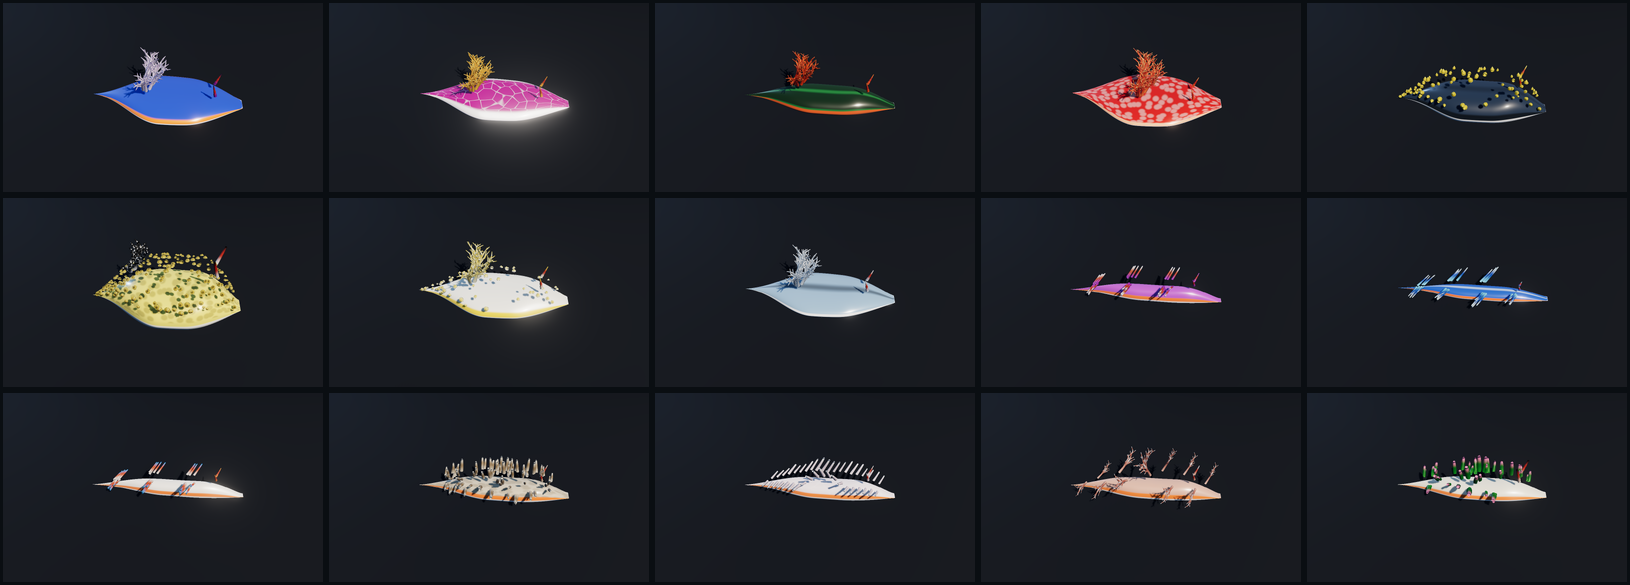
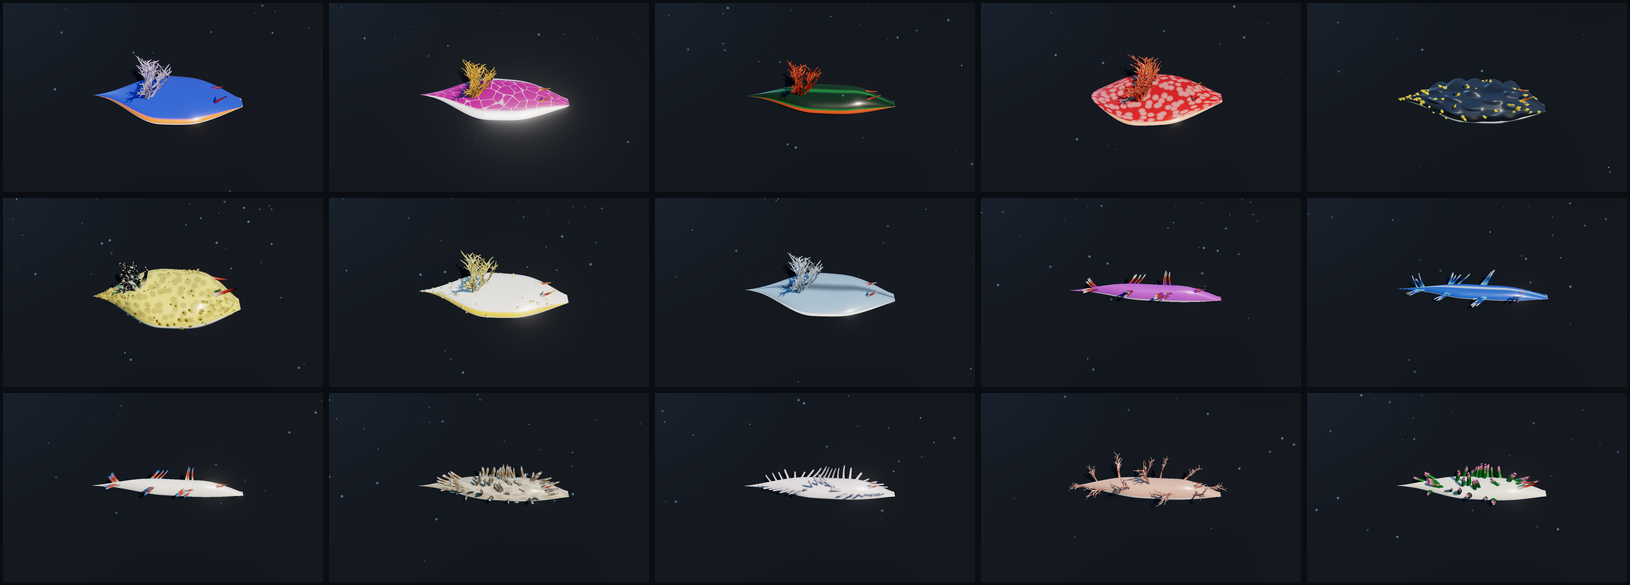
Richer backdrop, seat appendages on the body, procedural notum texture
- Backdrop: gradient sky-dome + drifting twinkling marine-snow field (from the
  siphonophore project), keeping the lit-reef substrate.
- Fix floating appendages: surfacePoint now matches the swept mesh's exact
  cross-section (was a pure-ellipse model placing them ~1.8x too high); appendage
  bases embed slightly into the flesh; flank appendages get an erect bias.
- Richer bodies without SDF: procedural vertex displacement on the swept mesh
  (tubercles + wrinkles) — Phyllidia gets a lumpy tuberculate notum, others a
  subtle default wrinkle so bodies aren't smooth lenses.
- Default mantle margin off (species opt in); tamed the hot specular under-glow.

diff --git a/src/scene/environment.js b/src/scene/environment.js
@@ -1,25 +1,53 @@
 import * as THREE from 'three';
 
-// A "wet jewel under a dive light" — the deliberate mood shift from the siphonophore
-// void. The animal crawls on a dark reef substrate, lit by a warm key (a diver's
-// torch) with a cool fill and a rim, so the wet clearcoat throws bright glints and
-// the saturated colour reads. Opaque, lit, grounded — NOT blackwater additive.
+// A lit reef in atmospheric water. Keeps the "wet jewel under a dive light" thesis
+// (the animal is opaque, lit, grounded on a substrate) but wraps it in the richer
+// backdrop from the siphonophore project: a tinted downwelling gradient instead of
+// a flat card, and a drifting, twinkling marine-snow field (added separately).
 export function buildEnvironment(scene, renderer) {
-  const bg = new THREE.Color(0x0a0f16);
-  scene.background = bg;
-  scene.fog = new THREE.FogExp2(bg.getHex(), 0.12);
+  const top = new THREE.Color(0x143a52);   // faint downwelling light
+  const bottom = new THREE.Color(0x05080f); // the deep
 
-  // Substrate the animal sits on: a large dark plane with a faint mottled tint,
-  // receiving the key light's shadow to ground the animal.
-  const subMat = new THREE.MeshStandardMaterial({ color: 0x121821, roughness: 0.9, metalness: 0.0 });
-  const substrate = new THREE.Mesh(new THREE.PlaneGeometry(60, 60), subMat);
+  // Gradient sky-dome (follows the camera; sized inside the frustum in update()).
+  const domeGeo = new THREE.SphereGeometry(1, 48, 32);
+  const domeMat = new THREE.ShaderMaterial({
+    side: THREE.BackSide,
+    depthWrite: false,
+    uniforms: { uTop: { value: top }, uBottom: { value: bottom }, uTime: { value: 0 } },
+    vertexShader: `varying vec3 vDir; void main(){ vDir = position; gl_Position = projectionMatrix * modelViewMatrix * vec4(position,1.0); }`,
+    fragmentShader: /* glsl */`
+      varying vec3 vDir;
+      uniform vec3 uTop, uBottom;
+      uniform float uTime;
+      void main(){
+        vec3 nd = normalize(vDir);
+        float h = nd.y;
+        float a = atan(nd.z, nd.x);
+        vec3 col = mix(uBottom, uTop, smoothstep(-0.5, 0.95, h));
+        float cells = 0.5 + 0.5 * sin(a * 2.0 + h * 3.0 + uTime * 0.05)
+                          * cos(a * 3.0 - h * 2.0 - uTime * 0.03);
+        col += vec3(0.012, 0.030, 0.045) * cells;             // slow teal/indigo drift
+        col += uTop * 0.5 * smoothstep(0.25, 1.0, h);         // soft downwelling glow
+        gl_FragColor = vec4(col, 1.0);
+      }`,
+  });
+  const dome = new THREE.Mesh(domeGeo, domeMat);
+  dome.renderOrder = -1;
+  dome.frustumCulled = false;
+  scene.add(dome);
+
+  scene.fog = new THREE.FogExp2(bottom.getHex(), 0.1); // fades the substrate into the water
+
+  // Substrate the animal crawls on: a dark reef plane that fades into the fog.
+  const subMat = new THREE.MeshStandardMaterial({ color: 0x0e1620, roughness: 0.92, metalness: 0.0 });
+  const substrate = new THREE.Mesh(new THREE.PlaneGeometry(80, 80), subMat);
   substrate.rotation.x = -Math.PI / 2;
   substrate.position.y = -0.001;
   substrate.receiveShadow = true;
   scene.add(substrate);
 
-  // Lights: warm key (torch) from front-above with shadow, cool fill, cool back rim.
-  const key = new THREE.DirectionalLight(0xfff0dc, 3.6);
+  // Dive-light rig: warm key (torch) with shadow, cool fill, cool back rim.
+  const key = new THREE.DirectionalLight(0xfff0dc, 3.4);
   key.position.set(2.2, 4.0, 2.8);
   key.castShadow = true;
   key.shadow.mapSize.set(1024, 1024);
@@ -30,42 +58,101 @@ export function buildEnvironment(scene, renderer) {
   sc.left = -3; sc.right = 3; sc.top = 3; sc.bottom = -3;
   scene.add(key);
 
-  const fill = new THREE.HemisphereLight(0x9fc4e8, 0x0a0f16, 0.8);
+  const fill = new THREE.HemisphereLight(0x8fc0e8, 0x0a1018, 0.7);
   scene.add(fill);
-
-  const rim = new THREE.DirectionalLight(0x88b0e0, 1.1);
+  const rim = new THREE.DirectionalLight(0x7fb0e0, 1.1);
   rim.position.set(-2.5, 1.2, -3.0);
   scene.add(rim);
 
-  // A cheap environment map (gradient) so the wet clearcoat has something to reflect.
+  // Env map from the gradient (so the wet clearcoat has something to reflect).
   const pmrem = new THREE.PMREMGenerator(renderer);
   pmrem.compileEquirectangularShader();
   const envScene = new THREE.Scene();
-  const domeGeo = new THREE.SphereGeometry(10, 24, 16);
-  const domeMat = new THREE.MeshBasicMaterial({ side: THREE.BackSide });
-  domeMat.onBeforeCompile = (sh) => {
-    sh.fragmentShader = sh.fragmentShader.replace(
-      '#include <dithering_fragment>',
-      `#include <dithering_fragment>
-       float hh = normalize(vViewPosition).y;`
-    );
-  };
-  const envDome = new THREE.Mesh(domeGeo, new THREE.MeshBasicMaterial({ color: 0x2a3a4e, side: THREE.BackSide }));
+  const envDome = new THREE.Mesh(domeGeo, domeMat.clone());
+  envDome.scale.setScalar(10);
   envScene.add(envDome);
-  envScene.add(new THREE.HemisphereLight(0xbfd8ee, 0x141a22, 1.2));
+  envScene.add(new THREE.HemisphereLight(0x3a6f92, 0x0a1018, 1.2));
   scene.environment = pmrem.fromScene(envScene).texture;
   scene.environmentIntensity = 0.85;
 
   return {
     substrate,
     setScale(s) {
-      scene.fog.density = 0.25 / (s + 0.4);
+      scene.fog.density = 0.22 / (s + 0.4);
       key.position.set(s * 2.2, s * 4.0, s * 2.8);
       const c = key.shadow.camera;
       c.left = -s * 1.6; c.right = s * 1.6; c.top = s * 1.6; c.bottom = -s * 1.6;
       c.far = s * 20 + 5; c.updateProjectionMatrix();
-      substrate.position.y = -0.001;
     },
-    update() {},
+    update(t, camera) {
+      domeMat.uniforms.uTime.value = t;
+      if (camera) {
+        dome.position.copy(camera.position);
+        dome.scale.setScalar((camera.far - camera.near) * 0.45);
+      }
+    },
+  };
+}
+
+// Marine snow — drifting, twinkling particulate in the water column above the reef.
+// Custom point shader (per-particle size + twinkle, soft round sprite) so it reads
+// as suspended matter catching the light rather than flat dots.
+export function buildMarineSnow(scene, count = 1200) {
+  const geo = new THREE.BufferGeometry();
+  const pos = new Float32Array(count * 3);
+  const size = new Float32Array(count);
+  const phase = new Float32Array(count);
+  const spd = new Float32Array(count);
+  for (let i = 0; i < count; i++) {
+    pos[i * 3] = Math.random() * 2 - 1;
+    pos[i * 3 + 1] = Math.random();          // mostly above the substrate
+    pos[i * 3 + 2] = Math.random() * 2 - 1;
+    const big = Math.random() < 0.08;
+    size[i] = big ? 1.6 + Math.random() * 2.2 : 0.35 + Math.random() * 0.9;
+    phase[i] = Math.random();
+    spd[i] = 0.2 + Math.random() * 0.8;
+  }
+  geo.setAttribute('position', new THREE.BufferAttribute(pos, 3));
+  geo.setAttribute('aSize', new THREE.BufferAttribute(size, 1));
+  geo.setAttribute('aPhase', new THREE.BufferAttribute(phase, 1));
+
+  const mat = new THREE.ShaderMaterial({
+    transparent: true, depthWrite: false, blending: THREE.AdditiveBlending,
+    uniforms: { uTime: { value: 0 }, uPxScale: { value: 30 }, uColor: { value: new THREE.Color(0x7fa8c8) } },
+    vertexShader: /* glsl */`
+      attribute float aSize; attribute float aPhase;
+      uniform float uTime, uPxScale; varying float vTw;
+      void main(){
+        vec4 mv = modelViewMatrix * vec4(position, 1.0);
+        vTw = 0.5 + 0.5 * sin(uTime * 1.3 + aPhase * 6.2831);
+        gl_PointSize = clamp(aSize * uPxScale / max(0.05, -mv.z), 0.0, 14.0);
+        gl_Position = projectionMatrix * mv;
+      }`,
+    fragmentShader: /* glsl */`
+      precision highp float; uniform vec3 uColor; varying float vTw;
+      void main(){
+        float r = length(gl_PointCoord - 0.5);
+        float a = smoothstep(0.5, 0.0, r);
+        gl_FragColor = vec4(uColor * vTw, a * vTw * 0.45);
+      }`,
+  });
+
+  const points = new THREE.Points(geo, mat);
+  points.frustumCulled = false;
+  scene.add(points);
+
+  return {
+    points,
+    setScale(s) { points.scale.set(s * 2.6, s * 2.0, s * 2.6); mat.uniforms.uPxScale.value = s * 16 + 6; },
+    update(dt) {
+      mat.uniforms.uTime.value += dt;
+      const p = geo.attributes.position.array;
+      for (let i = 0; i < count; i++) {
+        p[i * 3 + 1] -= spd[i] * dt * 0.02;
+        p[i * 3] += Math.sin((p[i * 3 + 1] + i) * 1.5) * dt * 0.006;
+        if (p[i * 3 + 1] < 0.02) { p[i * 3 + 1] = 1; p[i * 3] = Math.random() * 2 - 1; }
+      }
+      geo.attributes.position.needsUpdate = true;
+    },
   };
 }

diff --git a/src/rig/body.js b/src/rig/body.js
@@ -57,6 +57,19 @@ export function buildBodyMesh(p) {
         const phi = (t / 0.62) * Math.PI;
         z = w * Math.sign(Math.cos(phi)) * Math.pow(Math.abs(Math.cos(phi)), 0.85);
         y = h * Math.pow(Math.sin(phi), 0.78);
+        // Procedural NOTUM TEXTURE — displace the surface outward for tubercles
+        // (rounded bumps) and wrinkles (soft folds), so the body isn't a smooth
+        // lens. This is the cheap-and-controllable alternative to SDF lumpiness.
+        const bd = p.body;
+        if ((bd.bump || 0) + (bd.wrinkle || 0) > 0.001) {
+          const dome = Math.pow(Math.sin(phi), 0.5); // fade texture out at the margins
+          const tuber = Math.max(0, Math.sin(u * (bd.bumpU || 42)) * Math.sin(t * 6.2831 * (bd.bumpV || 13)));
+          const wrink = 0.5 * Math.sin(u * 9.0 + t * 6.0) + 0.5 * Math.sin(t * 6.2831 * 3.0 + u * 4.0);
+          const disp = ((bd.bump || 0) * tuber + (bd.wrinkle || 0) * wrink * 0.5) * h * dome;
+          const cy = h * 0.35, dy = y - cy, dl = Math.hypot(dy, z) || 1;
+          y += (dy / dl) * disp;
+          z += (z / dl) * disp;
+        }
       } else {
         // Flat foot sole (left margin → right margin) just above the substrate.
         const b = (t - 0.62) / 0.38;
@@ -134,22 +147,33 @@ export function buildBody(field, p) {
 }
 
 // Surface point + outward normal at (u along body, v across dorsum). v: 0 = left
-// margin, 0.5 = dorsal midline, 1 = right margin. Used to seat appendages.
+// margin, 0.5 = dorsal midline, 1 = right margin. Used to seat appendages — so it
+// MUST match the swept mesh's cross-section exactly (see buildBodyMesh), or the
+// appendages float above / sink into the body.
 export function surfacePoint(profiles, u, v, out = {}) {
-  const { half, widthAt, heightAt, centreY } = profiles;
+  const { half, widthAt, heightAt } = profiles;
   const x = lerp(-half, half, u);
-  const rz = Math.max(widthAt(u), 0.008);
-  const ry = Math.max(heightAt(u), 0.008);
-  const cy = centreY(u);
-  const phi = (v - 0.5) * Math.PI;
-  const sy = Math.cos(phi), sz = Math.sin(phi);
-  const y = cy + ry * sy;
-  const z = rz * sz;
-  // Outward normal of the cross-section ellipse (x contributes little on the trunk).
-  let nx = 0, ny = sy / ry, nz = sz / rz;
+  const w = Math.max(widthAt(u), 0.006);
+  const h = Math.max(heightAt(u), 0.006);
+  // The mesh's top cross-section, parametrised by phi ∈ [0,π]: phi=0 → right margin,
+  // π/2 → dorsal midline, π → left margin. v maps in reverse so v=0.5 is the top.
+  const cs = (phi) => {
+    const c = Math.cos(phi), s = Math.sin(phi);
+    return [h * Math.pow(Math.max(0, s), 0.78), w * Math.sign(c) * Math.pow(Math.abs(c), 0.85)];
+  };
+  const phi = (1 - v) * Math.PI;
+  const [y, z] = cs(phi);
+  // Outward normal from the cross-section tangent (finite difference), oriented away
+  // from a point just inside the dome; plus a small x-tilt from the along-body slope.
+  const e = 0.02;
+  const [ya, za] = cs(phi - e), [yb, zb] = cs(phi + e);
+  let ny = zb - za, nz = -(yb - ya);
+  if (ny * (y - h * 0.35) + nz * z < 0) { ny = -ny; nz = -nz; }
+  const slope = heightAt(Math.min(1, u + 0.02)) - heightAt(Math.max(0, u - 0.02));
+  let nx = -slope * Math.max(0, Math.sin(phi)) * 1.0;
   const nl = Math.hypot(nx, ny, nz) || 1;
   out.pos = [x, y, z];
   out.nrm = [nx / nl, ny / nl, nz / nl];
-  out.rz = rz; out.ry = ry;
+  out.w = w; out.h = h;
   return out;
 }

diff --git a/src/main.js b/src/main.js
@@ -8,7 +8,7 @@ import GUI from 'lil-gui';
 
 import { makeSpecies, SPECIES_ORDER, SPECIES_LABELS } from './species/presets.js';
 import { NudibranchRig } from './rig/NudibranchRig.js';
-import { buildEnvironment } from './scene/environment.js';
+import { buildEnvironment, buildMarineSnow } from './scene/environment.js';
 
 const app = document.getElementById('app');
 
@@ -31,11 +31,12 @@ controls.minDistance = 0.3;
 controls.maxDistance = 40;
 
 const env = buildEnvironment(scene, renderer);
+const snow = buildMarineSnow(scene);
 
 // Subtle bloom only on the wettest specular highlights (they gleam, not glow).
 const composer = new EffectComposer(renderer);
 composer.addPass(new RenderPass(scene, camera));
-const bloom = new UnrealBloomPass(new THREE.Vector2(innerWidth, innerHeight), 0.22, 0.5, 0.9);
+const bloom = new UnrealBloomPass(new THREE.Vector2(innerWidth, innerHeight), 0.2, 0.5, 1.05);
 composer.addPass(bloom);
 composer.addPass(new OutputPass());
 
@@ -56,6 +57,7 @@ function frameCamera(preserve = false) {
   camera.far = s * 60 + 20;
   camera.updateProjectionMatrix();
   env.setScale(s);
+  snow.setScale(s);
 }
 
 function rebuild(preserveCamera = true) {
@@ -142,6 +144,7 @@ function animate() {
   requestAnimationFrame(animate);
   const dt = Math.min(clock.getDelta(), 0.05);
   if (!ui.paused && rig) rig.update(dt);
+  snow.update(dt);
   env.update(clock.elapsedTime, camera);
   controls.update();
   composer.render();

diff --git a/src/core/params.js b/src/core/params.js
@@ -53,6 +53,9 @@ export function defaults() {
       mantleOverhang: 0.35, marginFrill: 0.2,
       tail: 0.15, tailTaper: 0.7, footWidth: 0.7,
       blend: 0.085, // smin radius (rel) — how "melted" appendages look where they merge
+      // Notum texture (procedural vertex displacement): tubercle bumps + soft
+      // wrinkles, so the body reads as living tissue rather than a smooth lens.
+      bump: 0.0, bumpU: 42, bumpV: 13, wrinkle: 0.07,
     },
 
     antennae: {
@@ -78,7 +81,7 @@ export function defaults() {
     // APPEARANCE — the identity. Procedural layers in body-UV (see NudiMaterial).
     surface: {
       base: '#f2f2f4', countershade: 0.15,
-      margin: { color: '#ff7a1a', width: 0.09, secondColor: '#ffffff', secondWidth: 0.02 },
+      margin: { color: '#ff7a1a', width: 0.0, secondColor: '#ffffff', secondWidth: 0.02 },
       spots: { amount: 0.0, color: '#242424', scale: 8, mode: 'worley' }, // worley | rd
       reticulation: { amount: 0.0, color: '#101010', scale: 10 },
       lines: { amount: 0.0, color: '#ffd000', count: 3 },

diff --git a/src/rig/dorsalField.js b/src/rig/dorsalField.js
@@ -22,12 +22,17 @@ export function buildDorsalField(cfg, profiles, seed) {
   for (const pl of placements) {
     surfacePoint(profiles, pl.u, pl.v, sp);
     nrm.set(sp.nrm[0], sp.nrm[1], sp.nrm[2]);
+    // Erect bias: lean appendages toward vertical so flank ones stand up rather
+    // than splaying flat out to the side (aeolid cerata point up-and-back).
+    nrm.lerp(Y, 0.3).normalize();
     q.setFromUnitVectors(Y, nrm);
     // Lean: outward tilt + a little backward (toward the tail) + jitter.
     tiltQ.setFromEuler(new THREE.Euler(pl.tiltX, pl.tiltY, pl.tiltZ));
     q.multiply(tiltQ);
-    posV.set(sp.pos[0], sp.pos[1], sp.pos[2]);
     const sc = pl.size;
+    // Sink the base a little into the flesh so it reads as emerging, not floating.
+    const embed = cfg.spec.baseRadius * sc * 0.8;
+    posV.set(sp.pos[0] - nrm.x * embed, sp.pos[1] - nrm.y * embed, sp.pos[2] - nrm.z * embed);
     scaleV.set(sc, sc, sc);
     m.compose(posV, q, scaleV);
     parts.push(proto.clone().applyMatrix4(m));

diff --git a/src/species/presets.js b/src/species/presets.js
@@ -59,7 +59,7 @@ const OVERRIDES = {
   },
   phyllidia: {
     displayName: 'Phyllidia varicosa', clade: 'dorid', scale: 0.06,
-    body: { length: 1.05, width: 0.42, height: 0.3, mantleOverhang: 0.25, tailTaper: 0.45, dome: 0.85 },
+    body: { length: 1.05, width: 0.42, height: 0.3, mantleOverhang: 0.25, tailTaper: 0.45, dome: 0.85, bump: 0.28, bumpU: 26, bumpV: 8, wrinkle: 0.03 },
     dorsal: { rosette: { amount: 0 }, cerata: { amount: 0 }, branches: { amount: 0 },
       bumps: { amount: 1, count: 90, spec: { length: 0.06, inflate: 0.9, baseColor: '#f0d020', coreColor: '#f0d020', tipColor: '#fff060' } } },
     antennae: { spec: { baseColor: '#f0d020', tipColor: '#fff060', ribs: 10 } },

diff --git a/src/rig/NudibranchRig.js b/src/rig/NudibranchRig.js
@@ -60,7 +60,8 @@ export class NudibranchRig extends THREE.Group {
       q.setFromUnitVectors(Y, nrm);
       tilt.setFromEuler(new THREE.Euler(-0.15, 0, side * a.splay)); // slight forward + splay
       q.multiply(tilt);
-      posV.set(sp.pos[0], sp.pos[1], sp.pos[2]);
+      const embed = a.spec.baseRadius * 0.8;
+      posV.set(sp.pos[0] - nrm.x * embed, sp.pos[1] - nrm.y * embed, sp.pos[2] - nrm.z * embed);
       scaleV.setScalar(1);
       m.compose(posV, q, scaleV);
       const mesh = new THREE.Mesh(geo.clone().applyMatrix4(m), this.appMat);

diff --git a/src/shading/NudiMaterial.js b/src/shading/NudiMaterial.js
@@ -107,7 +107,7 @@ vec3 nudiPattern(vec2 uv){
     if (uMargin2W > 0.001)
       c = mix(c, uMargin2Col, 1.0 - smoothstep(uMargin2W * 0.6, uMargin2W, edge));
   } else {
-    c = mix(uBase, vec3(0.9), 0.35); // pale foot sole
+    c = mix(uBase, vec3(0.7), 0.3); // pale foot sole
   }
   return c;
 }
